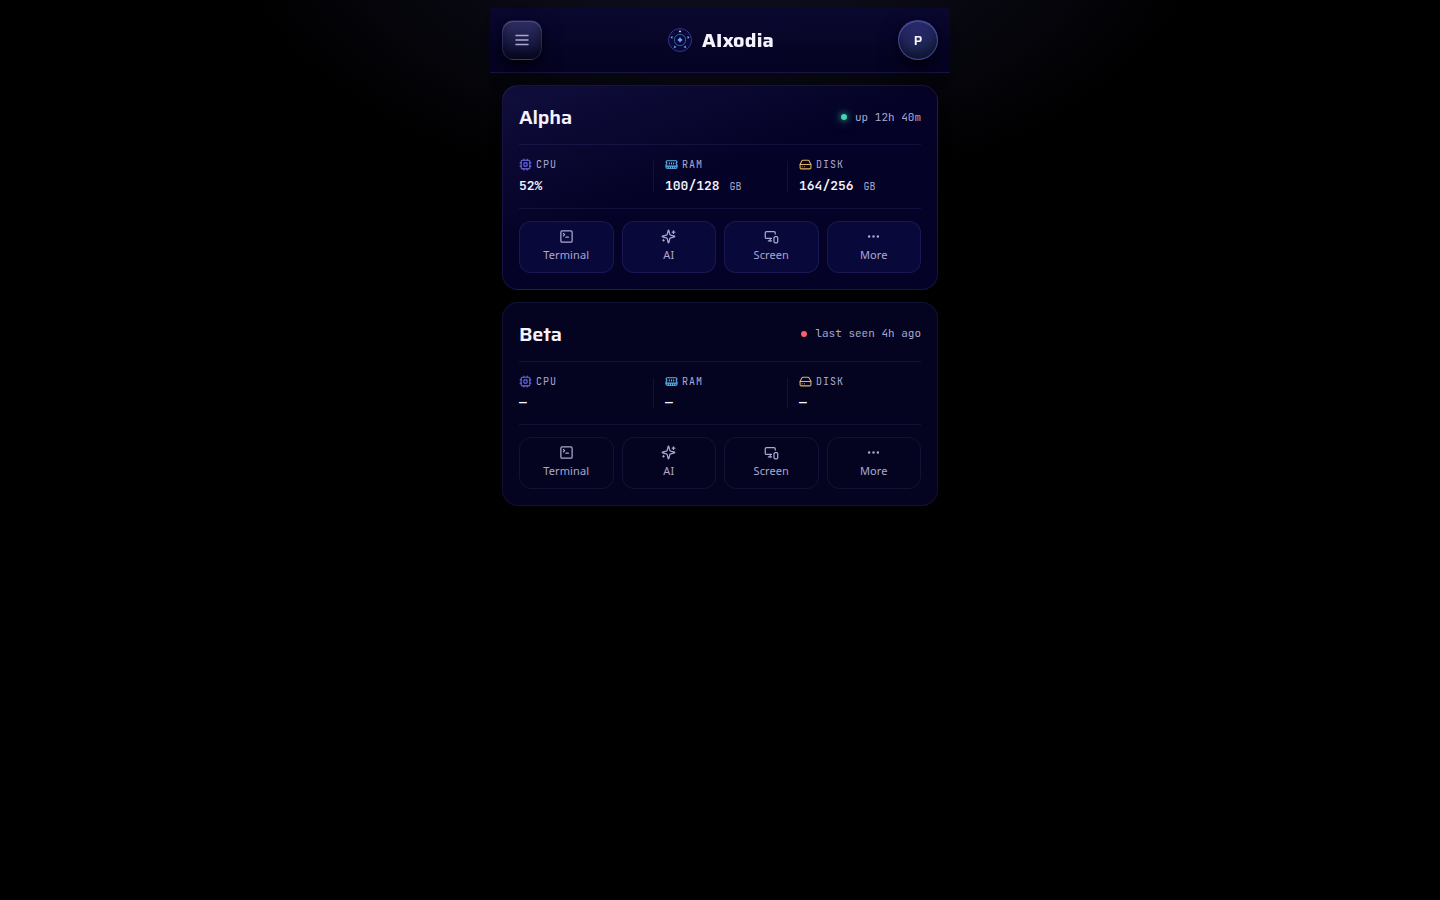
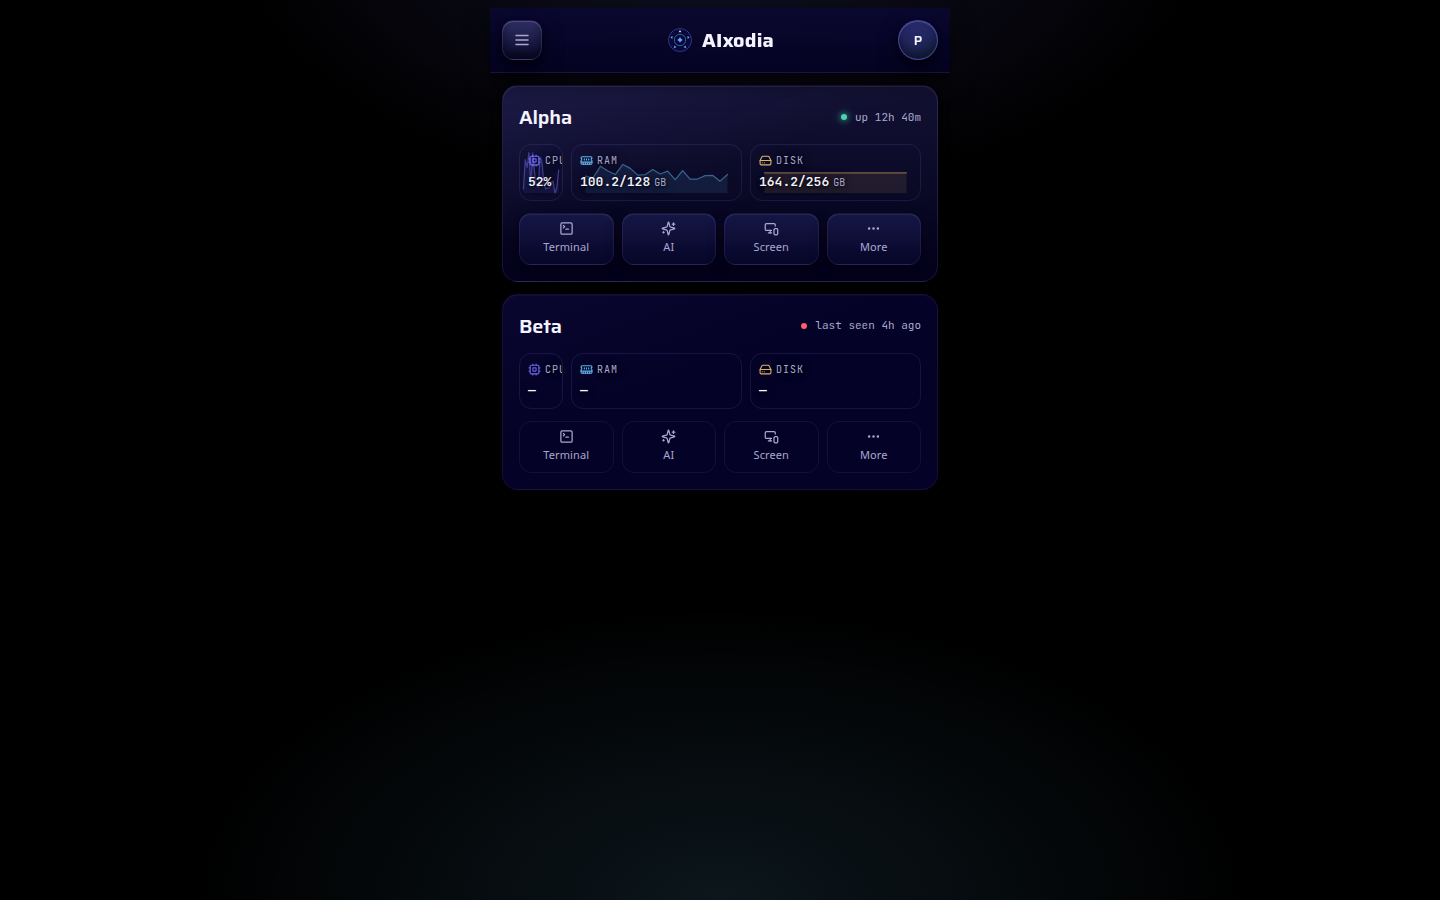
Add a drawer and read RAM and disk to one decimal
The menu button opens a left panel over a scrim: mark and name, close button,
four items with Engines current, and an owner line. It sits out of the flow and
slides in, so the screen never shifts.

RAM and disk now read to one decimal (100.2/128 GB, 164.2/256 GB). That made the
reading wider than a third of a card at 360, so the value scales with the
viewport instead of the panels going unequal, and below 355px the panels trade
their side padding for the space.

diff --git a/src/mock/EnginesMock.tsx b/src/mock/EnginesMock.tsx
@@ -1,18 +1,24 @@
-//! A static mock of the machines screen: no fetching, no state, no calls.
+//! A static mock of the machines screen: no fetching, no calls. The only state is
+//! whether the drawer is open.
 //!
 //! It exists so the shape of the screen can be argued about before any of it is
 //! wired to the registry. Everything below is a literal.
 
+import { useState } from 'react'
 import type { LucideIcon } from 'lucide-react'
 import {
+  Boxes,
   Cpu,
-  HardDrive,
-  MemoryStick,
   Ellipsis,
+  HardDrive,
+  History,
+  MemoryStick,
   Menu,
   MonitorSmartphone,
+  Settings,
   Sparkles,
   SquareTerminal,
+  X,
 } from 'lucide-react'
 
 interface Metric {
@@ -63,7 +69,7 @@ const MACHINES: Machine[] = [
         icon: MemoryStick,
         tone: 'cool',
         unit: 'GB',
-        digits: 0,
+        digits: 1,
         total: '128',
         series: sampleSeries(19, 100.4, 1.6),
       },
@@ -72,10 +78,9 @@ const MACHINES: Machine[] = [
         icon: HardDrive,
         tone: 'warm',
         unit: 'GB',
-        digits: 0,
+        digits: 1,
         total: '256',
-        // Slow to move and slow to fill: a short window still draws.
-        series: sampleSeries(3, 164, 0.6).slice(0, 17),
+        series: Array.from({ length: WINDOW_SAMPLES }, () => 164.2),
       },
     ],
   },
@@ -88,9 +93,16 @@ const MACHINES: Machine[] = [
     metrics: [
       { label: 'CPU', icon: Cpu, tone: 'accent', unit: '%', digits: 0, series: [] },
       { label: 'RAM', icon: MemoryStick, tone: 'cool', unit: 'GB', digits: 1, total: '128', series: [] },
-      { label: 'DISK', icon: HardDrive, tone: 'warm', unit: 'GB', digits: 0, total: '256', series: [] },
+      { label: 'DISK', icon: HardDrive, tone: 'warm', unit: 'GB', digits: 1, total: '256', series: [] },
     ],
   },
+]
+
+const DRAWER: { id: string; label: string; icon: LucideIcon; current?: boolean }[] = [
+  { id: 'engines', label: 'Engines', icon: Boxes, current: true },
+  { id: 'sessions', label: 'Sessions', icon: History },
+  { id: 'ai', label: 'AI', icon: Sparkles },
+  { id: 'settings', label: 'Settings', icon: Settings },
 ]
 
 const ACTIONS = [
@@ -172,7 +184,7 @@ function amount(metric: Metric): string {
 /** What the reading says: a share out of 100, or used over whole. */
 function reading(metric: Metric): { value: string; unit: string } {
   if (!metric.series.length) return { value: '—', unit: '' }
-  const used = String(Math.round(Number(amount(metric))))
+  const used = Number(amount(metric)).toFixed(metric.digits)
   return metric.total
     ? { value: `${used}/${metric.total}`, unit: metric.unit }
     : { value: `${used}%`, unit: '' }
@@ -233,11 +245,55 @@ function Card({ machine }: { machine: Machine }) {
   )
 }
 
+function Drawer({ open, onClose }: { open: boolean; onClose: () => void }) {
+  return (
+    <>
+      <div
+        className={`scrim${open ? ' is-open' : ''}`}
+        onClick={onClose}
+        aria-hidden="true"
+      />
+      <aside className={`drawer${open ? ' is-open' : ''}`} aria-label="Menu" aria-hidden={!open}>
+        <div className="drawer-head">
+          <img className="brand-mark" src="/brand/aixodia-mark.svg" alt="" width={24} height={24} />
+          <span className="drawer-brand">AIxodia</span>
+          <button type="button" className="drawer-close" onClick={onClose} aria-label="Close menu">
+            <X size={16} />
+          </button>
+        </div>
+
+        <nav className="drawer-list">
+          {DRAWER.map(({ id, label, icon: Icon, current }) => (
+            <button
+              key={id}
+              type="button"
+              className={`drawer-item${current ? ' is-current' : ''}`}
+              aria-current={current ? 'page' : undefined}
+            >
+              <Icon size={16} />
+              <span>{label}</span>
+            </button>
+          ))}
+        </nav>
+
+        <p className="drawer-foot">P · owner</p>
+      </aside>
+    </>
+  )
+}
+
 export function EnginesMock() {
+  const [menuOpen, setMenuOpen] = useState(false)
   return (
     <div className="shell">
       <header className="topbar">
-        <button type="button" className="icon-button" aria-label="Menu">
+        <button
+          type="button"
+          className="icon-button"
+          aria-label="Menu"
+          aria-expanded={menuOpen}
+          onClick={() => setMenuOpen(true)}
+        >
           <Menu size={18} />
         </button>
         <div className="brand">
@@ -248,6 +304,8 @@ export function EnginesMock() {
           P
         </button>
       </header>
+
+      <Drawer open={menuOpen} onClose={() => setMenuOpen(false)} />
 
       <main className="screen">
         {MACHINES.map((machine) => (

diff --git a/src/mock/mock.css b/src/mock/mock.css
@@ -93,6 +93,117 @@ button:disabled { cursor: not-allowed; }
   flex-direction: column;
 }
 
+/* ----------------------------------------------------------------- drawer */
+
+/* A left panel over a scrim: the top bar stays put, the screen dims behind, and
+   the whole thing is out of the flow so the layout never shifts when it opens. */
+.scrim {
+  position: fixed;
+  inset: 0;
+  z-index: 3;
+  background: rgba(0, 0, 0, 0.6);
+  opacity: 0;
+  pointer-events: none;
+  transition: opacity 0.2s ease;
+}
+
+.scrim.is-open {
+  opacity: 1;
+  pointer-events: auto;
+}
+
+.drawer {
+  position: fixed;
+  top: 0;
+  bottom: 0;
+  left: 0;
+  z-index: 4;
+  width: 268px;
+  max-width: 82vw;
+  display: flex;
+  flex-direction: column;
+  gap: var(--s4);
+  padding: var(--s4) var(--s3);
+  border-right: 1px solid var(--hairline);
+  background: linear-gradient(180deg, rgba(10, 8, 48, 0.98), rgba(4, 2, 38, 0.98));
+  transform: translateX(-100%);
+  transition: transform 0.22s ease;
+}
+
+.drawer.is-open { transform: none; }
+
+.drawer-head {
+  display: flex;
+  align-items: center;
+  gap: var(--s2);
+  min-width: 0;
+}
+
+.drawer-brand {
+  flex: 1 1 auto;
+  font-family: var(--brand);
+  font-weight: 700;
+  font-size: var(--fs-body);
+  letter-spacing: 0.01em;
+}
+
+.drawer-close {
+  display: grid;
+  place-items: center;
+  width: 28px;
+  height: 28px;
+  padding: 0;
+  border-radius: var(--s2);
+  border: 1px solid var(--border);
+  background: transparent;
+  color: var(--muted);
+  transition: border-color 0.15s ease, color 0.15s ease, transform 0.12s ease;
+}
+
+.drawer-close:hover { border-color: var(--border-strong); color: var(--text); }
+.drawer-close:active { transform: scale(0.92); }
+
+.drawer-list {
+  display: flex;
+  flex-direction: column;
+  gap: var(--s1);
+}
+
+.drawer-item {
+  display: flex;
+  align-items: center;
+  gap: var(--s2);
+  padding: var(--s2) var(--s3);
+  border: 1px solid transparent;
+  border-radius: var(--s2);
+  background: transparent;
+  color: var(--muted);
+  font-size: var(--fs-body);
+  text-align: left;
+  transition: background 0.15s ease, color 0.15s ease, transform 0.12s ease;
+}
+
+.drawer-item:hover { background: var(--surface-2); color: var(--text); }
+.drawer-item:active { transform: scale(0.98); }
+
+.drawer-item.is-current {
+  background: rgba(119, 114, 255, 0.14);
+  border-color: var(--border);
+  color: var(--text);
+}
+
+.drawer-item.is-current svg { color: var(--accent); }
+
+.drawer-item svg { flex: 0 0 auto; opacity: 0.9; }
+
+.drawer-foot {
+  margin: auto 0 0;
+  padding: 0 var(--s3);
+  font-family: var(--mono);
+  font-size: var(--fs-meta);
+  color: var(--dim);
+}
+
 /* --------------------------------------------------------------- topbar */
 
 /* The bar is its own layer: full-bleed, translucent over the page glow, with a
@@ -276,6 +387,8 @@ button:disabled { cursor: not-allowed; }
 
 .metrics {
   display: grid;
+  /* Equal thirds: a reading that is wider than its panel is worse than one a
+     little smaller, so the value below scales with the viewport instead. */
   grid-template-columns: repeat(3, minmax(0, 1fr));
   gap: var(--s2);
   /* Panels carry their own frames, so a rule above them only adds a third line to
@@ -356,7 +469,8 @@ button:disabled { cursor: not-allowed; }
 
 .metric-value {
   font-family: var(--mono);
-  font-size: var(--fs-body);
+  /* Fits "100.2/128 GB" in a third of a 360px card without clipping. */
+  font-size: clamp(11px, 3.2vw, var(--fs-body));
   font-weight: 600;
   color: var(--text);
   white-space: nowrap;
@@ -432,8 +546,16 @@ button:disabled { cursor: not-allowed; }
   color: var(--muted);
 }
 
+/* Below 355 there is not enough width for three panels at full size, so the
+   panels give up their side padding rather than clipping the readings. */
+@media (max-width: 355px) {
+  .metric { padding: var(--s2) var(--s1); }
+  .metric-value { font-size: 10px; }
+}
+
 @media (prefers-reduced-motion: reduce) {
   .action, .icon-button, .avatar { transition: none; }
+  .drawer, .scrim, .drawer-item, .drawer-close { transition: none; }
   .action:active:not(:disabled),
   .icon-button:active,
   .avatar:active { transform: none; }

diff --git a/docs/ux-visual/verification/mock.md b/docs/ux-visual/verification/mock.md
@@ -560,3 +560,26 @@ Vision read the crop as 25/18/12 instead of 16/12/8 — the crop was resized 1.5
 and every figure it gave is exactly 1.5× the measured one. The numbers stand.
 
 Audits clean at 360/390/430/1440; `npm test` 19/19.
+
+## Round 28 — a drawer, and one decimal where there is a capacity
+
+**Drawer.** The menu button now opens a left panel (`268px`, `max-width: 82vw`),
+out of the flow so the layout never shifts, over a `rgba(0,0,0,.6)` scrim. It
+carries the mark and *AIxodia*, a close button, four items (Engines current,
+Sessions, AI, Settings) and an owner line at the bottom. Opens with
+`translateX(-100%) → 0` over 220ms; closes from the close button or the scrim.
+Measured at 390: `x 0, w 268, h 844, scrim 1`, close `28×28`; closed:
+`x -268`, `open false`, `pageScrollY 0`, `pageOverflowX 0`.
+
+**One decimal.** RAM and DISK readings now carry one place: `100.2/128 GB`,
+`164.2/256 GB`; CPU stays whole (`52%`). Totals stay whole, being capacities.
+
+That made the third-column reading 86px wide, which overflowed a third of a 360
+card by 9px. Fixed by treating the panels as equal thirds and letting the value
+scale: `font-size: clamp(11px, 3.2vw, var(--fs-body))`, plus, below 355px, the
+panels give up their side padding (`padding: 8px 4px`, value `10px`). A fixed
+narrow CPU column was tried first and rejected — it made the first panel visibly
+smaller than the other two.
+
+Audits clean at 320, 360, 390, 430 and 1440: no spills, no wrapped controls,
+`pageScrollY 0`.
